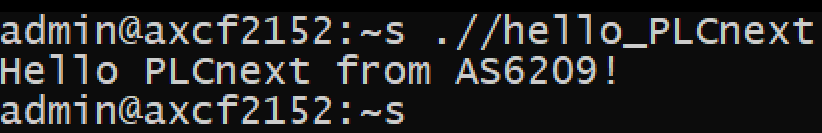
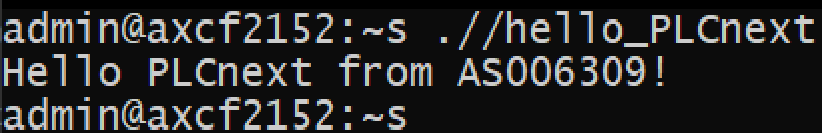
[task_04] Add solution (#80)
* Create lab1.cpp

* Create readme.md

* Update readme.md

* Rename lab1.cpp to main.cpp

* Create CMakeList.txt

* Delete trunk/as0006309/task01 directory

* workPLS

* added task04 try 2

* Changed wrong pic

* Update readme.md

* Add files via upload

---------

Changed region(s): [[0.0, 0.0602, 1.0, 0.391], [0.0, 0.391, 0.8212, 0.6617], [0.0, 0.6917, 0.517, 0.9925]]

diff --git a/trunk/as0006309/task_04/doc/readme.md b/trunk/as0006309/task_04/doc/readme.md
@@ -1,0 +1,47 @@
+<p align="center">Министерство образования Республики Беларусь</p>
+<p align="center">Учреждение образования</p>
+<p align="center">“Брестский Государственный технический университет”</p>
+<p align="center">Кафедра ИИТ</p>
+<br><br><br><br><br><br>
+<p align="center"><strong>Лабораторная работа №4</strong></p>
+<p align="center"><strong>По дисциплине</strong> “Теория и методы автоматического управления”</p>
+<p align="center"><strong>Тема:</strong> “Работа с контроллером AXC F 2152”</p>
+<br><br><br><br><br><br>
+<p align="right"><strong>Выполнил</strong>:</p>
+<p align="right">Студент 3 курса</p>
+<p align="right">Группы АС-63</p>
+<p align="right">Карпеш Н.П.</p>
+<p align="right"><strong>Проверил:</strong></p>
+<p align="right">Ситковец Я.С.</p>
+<br><br><br><br><br>
+<p align="center"><strong>Брест 2024</strong></p>
+
+---
+**Задание**
+
+1. Ознакомиться с общей информацией о платформе **PLCnext** [здесь](https://www.plcnext.help/te/About/Home.htm).
+
+2. Изучить проект [ptusa_main](https://github.com/savushkin-r-d/ptusa_main).
+
+3. Используя **Visual Studio** собрать данные проект и продемонстрировать работоспособность на тестовом контроллере.
+
+4. Написать отчет по выполненной работе в .md формате (readme.md) и с помощью pull request разместить его в следующем каталоге: trunk\as000xxyy\task_04\doc.
+
+
+<p> <strong>Цель:</strong> собрать проект ptusa_main и продемонстрировать его функциональность на тестовом контроллере.</p>
+
+<p>Для выполнения этой задачи первым шагом является сборка файла <em>ptusa_main</em> в Visual Studio. Для этого необходимо клонировать git-репозиторий, используя следующую команду, которую можно ввести в терминале или командной строке:</p>
+
+ ``` bash
+git clone --recurse-submodules https://github.com/savushkin-r-d/ptusa_main.git
+```
+
+<p>После того как репозиторий будет успешно клонирован, можно переходить к сборке проекта.</p>
+
+<p>По завершении сборки мы получаем исполняемый файл <em>ptusa_main</em>.</p>
+
+<p>После сборки файла необходимо установить соединение с контроллером через Ethernet.</p>
+
+<p>Убедившись в успешном подключении к контроллеру, запускаем исполняемый файл.</p>
+
+<p align="center"><img style='border:2px solid #000000' src="./images/result.png"/>

diff --git a/readme.md b/readme.md
@@ -26,7 +26,7 @@
 |4|Грицук Дмитрий|||||||||||
 |5|Грицук Павел|||||||||||
 |6|Казаренко Павел|||||||||||
-|7|Карпеш Никита|[as0006309](./trunk/as0006309/)|:white_check_mark:|:white_check_mark:|:white_check_mark:|:white_check_mark:||||||
+|7|Карпеш Никита|[as0006309](./trunk/as0006309/)|:white_check_mark:|:white_check_mark:|:white_check_mark:|:white_check_mark:|:white_check_mark:|||||
 |8|Козлович Антон|||||||||||
 |9|Козловская Анна|[as0006310](./trunk/as0006310/)|:white_check_mark:|:white_check_mark:|:white_check_mark:|:white_check_mark:||||||
 |10|Колодич Максим|||||||||||
